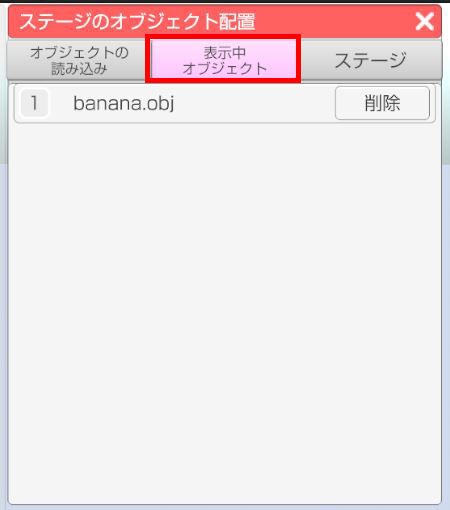
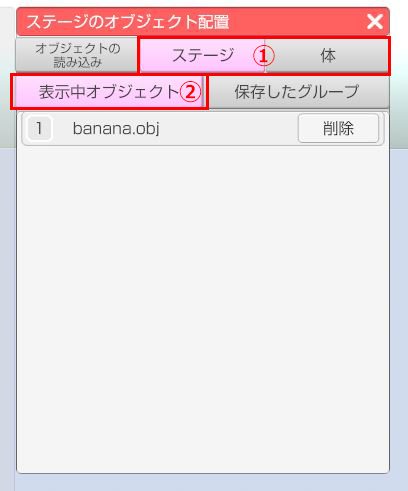
・オブジェクトの配置の説明を更新

Changed region(s): [[0.0, 0.0, 1.0, 1.0]]

diff --git a/ObjectPlacement.md b/ObjectPlacement.md
@@ -23,8 +23,10 @@
 ### 3teneのステージ上にオブジェクトファイルを表示する
 
 >表示されたリストの「読み込む」をクリックするとステージ上にオブジェクトが表示されます。 画像上①
+>上部タブの「ステージ」-「表示中オブジェクト」タブ内にリストとして追加されます。
 >「体の部位にオブジェクトを張り付ける」にチェックを入れ、「体の部位」のドロップダウンからオブジェクトを貼り付けたい部位を選択してから、上記同様リストの「読み込む」をクリックすると選択した部位にオブジェクトを張り付けることが出来ます。 画像上②, ③
->また、上部タブの「表示中オブジェクト」タブ内にリストとして追加されます。 画像下
+>「体の部位にオブジェクトを張り付ける」にチェックを入れた場合は、上部タブの「体」-「表示中オブジェクト」タブ内にリストとして追加されます。
+ 画像下①, ②
 
 ![画像](image/file_object3.jpg "ステージのオブジェクト配置ウィンドウ2")
 
@@ -33,7 +35,7 @@
 
 ### オブジェクトの調整
 
->上部タブの「表示中オブジェクト」内の該当のリストをクリックすると色がリスト背景が青に変化し同オブジェクトのオブジェクトの調整ウィンドウが表示されます。 画像①, 画像②
+>上部タブの「ステージ」または「体」内の「表示中オブジェクト」内の該当のリストをクリックすると色がリスト背景が青に変化し同オブジェクトのオブジェクトの調整ウィンドウが表示されます。 画像①, 画像②
 >また、選択中のオブジェクトにオレンジのポイントが表示されます。 画像③
 >オブジェクトの調整ウィンドウ上部の位置、回転、スケールの調整したいもののチェックボックスにチェックを入れるとそれぞれを調整することが出来ます。 画像④
 
@@ -50,10 +52,25 @@
 
 ### オブジェクトの削除
 
->上部タブの「表示中オブジェクト」内のリストの右側の「削除」をクリックすると該当のオブジェクトを削除します。
+>上部タブの「ステージ」または「体」内の「表示中オブジェクト」内のリストの右側の「削除」をクリックすると該当のオブジェクトを削除します。
 
 ![画像](image/file_object7.jpg "ステージのオブジェクト配置ウィンドウ4")
 
+### 読み込んだオブジェクトグループの保存
+
+>上部タブの「ステージ」または「体」内の「保存したグループ」内の「現在のステージの状態を追加」または「現在の体のオブジェクトを保存」をクリックするとステージ上または体に貼り付けたオブジェクト情報をまとめて保存します。 画像①, ②, ③
+>追加した場合同タブ内下部にリストとして表示されます。 画像④
+>
+![画像](image/file_object8.jpg "ステージのオブジェクト配置ウィンドウ5")
+
+### 読み込んだオブジェクトグループの更新・削除
+
+>上部タブの「ステージ」または「体」内の「保存したグループ」内に追加されたリストの「読み込む」ボタンをクリックすると保存したオブジェクト情報を読み込みます。 画像①
+>リストを選択し「更新」をクリックすると同リストのオブジェクト情報を現在表示されているオブジェクト情報に更新します。 画像②
+>リストを選択し「削除」をクリックすると同リストを削除します。 画像③
+>リストを選択し「グループ名」のテキストを変更し、「名称変更」をクリックするとリストの名称を変更できます。 画像④, 画像⑤
+
+![画像](image/file_object9.jpg "ステージのオブジェクト配置ウィンドウ6")
 
 ### 既知の不具合
 
